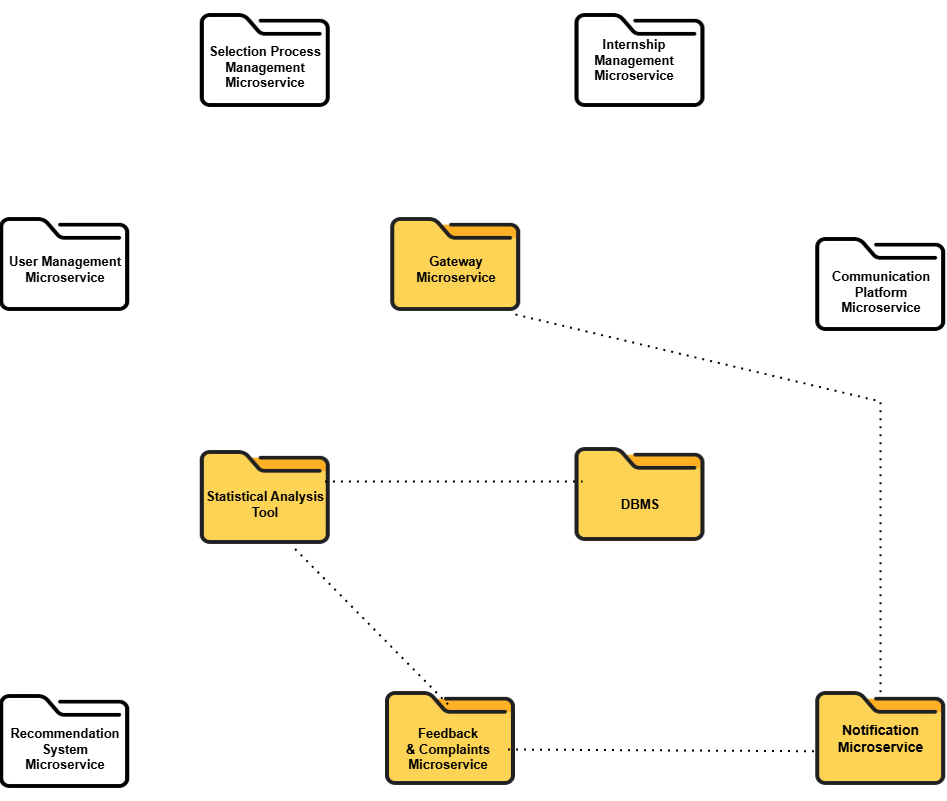
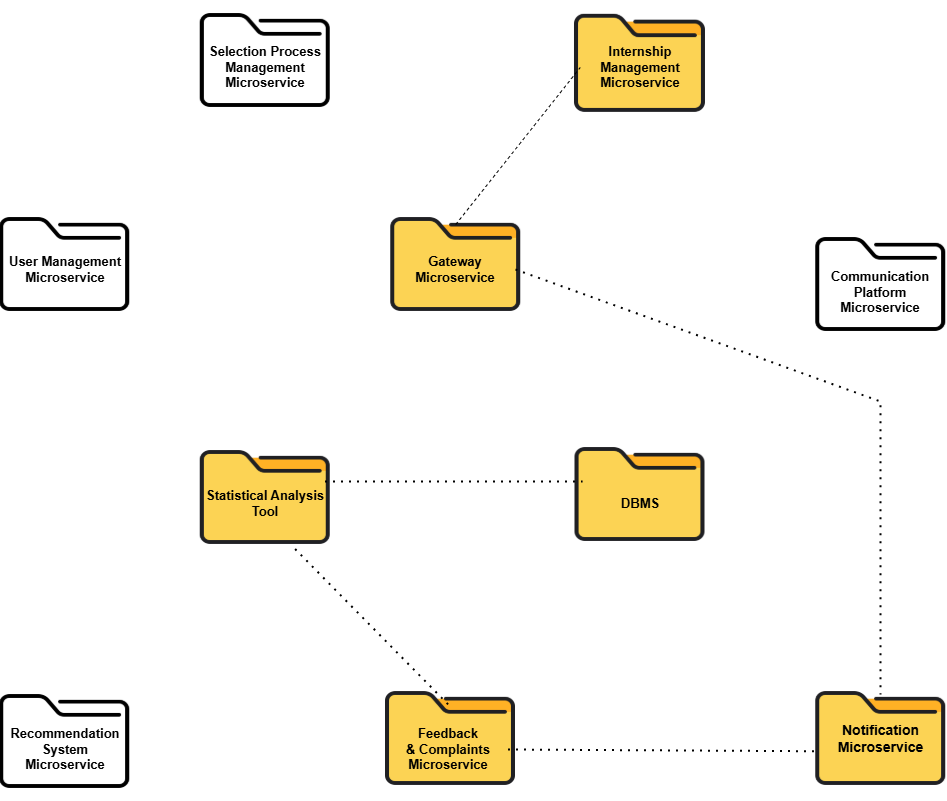
correzioni capitolo 5

diff --git a/DD/DD LaTex/Chapter_5.tex b/DD/DD LaTex/Chapter_5.tex
@@ -12,7 +12,9 @@ The chapter is divided into three main parts:
     \item Feature Identification: This part focuses on the platform's key functionalities, derived from
     primary use cases, and highlights the microservices that support them - Section 5.2.1
     \item Component Integration and Testing: This section describes the integration of microservices
-    to test features, using a thread-based strategy that mirrors real-world scenarios - Section 5.2.2
+    to test features, using a thread-based strategy that mirrors real-world scenarios.
+    The software will be implemented starting from the features; each features
+    will first be implemented and tested, and then integrated with others - Section 5.2.2
     \item System Testing: Here, the focus shifts to testing the platform as a whole, ensuring that
     all components work together seamlessly to deliver a complete and robust system - Section 5.3
 \end{enumerate}
@@ -155,23 +157,20 @@ and internship, enriched with additional useful information automatically gather
 This report is then sent to universities via a notification, as they are responsible for monitoring
 the situation.
 
-The system collects both preliminary data and data provided by users, similar to the process outlined
-in the previous section. Preliminary data includes user actions and profile information, while more
-detailed data is gathered from user feedback and complaints. The Statistical Analysis Tool collects
-the preliminary data, while the Feedback and Complaints Microservice gathers and processes the
-feedback and complaints submitted by users. It’s important to note that user feedback, in addition
-to formal complaints, can also serve as a valuable source of information for the complaint report.
-
-Once the data is collected, it is processed by the system. Relevant data for the complaint report is
+Data have been collected and they have been processed by the system. Relevant data for the
+complaint report is
 then forwarded to the appropriate section, where it undergoes further processing to create the
 finalized complaint report. This report is enriched with the necessary information, making it
 suitable for sending to the universities. Finally, the report is transformed into a notification
 and sent to the universities for monitoring purposes.
 
+This report is an important tool for universities, as it helps them decide whether or not to
+terminate an internship.
+
 \newpage
 \subsection{Components Integration and Testing}
 
-In the integration testing phase of the Students\&Companies (S\&C) platform, a hread-based strategy
+In the integration testing phase of the Students\&Companies (S\&C) platform, a thread-based strategy
 was chosen to ensure a systematic and realistic evaluation of the system. This approach focuses on
 testing complete end-to-end flows, or "threads," that represent specific use cases, such as matching
 students with internships or managing the selection process. 
@@ -241,10 +240,10 @@ As the student explores these opportunities, their profile information,
 preferences, and actions are managed by the student user management microservice, which ensures
 their data is updated and stored in the database.
 
-Once the student finds an internship that interests them, they can apply to start the selection
+Once the student finds an internship that interests him, he can apply to start the selection
 proess. This application triggers the selection process microservice, which records the
 application and initiates the workflow for the company to review. The company can then
-access the student's profile and decide whether to accept them into the selection process.
+access the student's profile and decide whether to accept him into the selection process.
 This decision-making is facilitated by the company user management microservice, which retrieves
 the student's details stored in the database, allowing the company to make an informed decision
 based on the student's qualifications and other relevant data.
@@ -258,7 +257,7 @@ Once the student is accepted, the selection process continues with the student c
 questionnaires designed to assess their fit for the internship. These questionnaires are
 managed and delivered by the selection process microservice, which ensures that they are
 assigned to the appropriate students and tracked throughout the process. All responses
-are stored in the database for later review by the company or other relevant stakeholders.
+are stored in the database for later review by the company.
 
 Additionally, the platform provides the option for online interviews, which can be scheduled
 by the company and the student. The gateway microservice facilitates the scheduling and
@@ -367,16 +366,8 @@ Here is a schematic view of the development and testing of this feature:
 The recommendation system is designed to deliver targeted notifications to both students and companies,
 involving several key stages, each supported by different microservices.
 
-The process begins with data collection, which is split into two categories: preliminary data and
-detailed user data. Preliminary data is automatically gathered from user profiles and their actions
-on the platform, such as internship views, applications, and company activities. The Statistical
-Analysis Tool microservice is responsible for collecting this data, tracking user interactions.
-In addition, more detailed data comes directly from users, such as feedback and complaints.
-This information helps the system refine recommendations. The Feedback
-\& Complaints Service
-collects and stores this user-generated input.
-
-Once data is collected, it needs to be processed and organized. The Statistical Analysis Service
+The process begins once data is collected and they need to be processed and organized.
+The Statistical Analysis Tool
 categorizes the data based on relevance and user type, ensuring that it is ready for recommendation
 generation. This step ensures that only actionable data is passed on to the next phase.
 
@@ -387,8 +378,7 @@ The Recommendation Microservice handles this stage by applying algorithms to ide
 generate tailored suggestions.
 
 After recommendations are generated, they are formatted into notifications. The Notification Microservice 
-transforms these recommendations into user-friendly formats suitable for delivery across various channels, 
-such as email or in-app alerts.
+transforms these recommendations into user-friendly formats suitable for be delivered by in-app alerts.
 
 Finally, the Gateway Microservice ensures that the notifications are delivered to the appropriate users. 
 It routes them according to user preferences, ensuring that each notification reaches its target in 
@@ -408,31 +398,17 @@ Here is a schematic view of the development and testing of this feature:
 \subsubsection{Complaints Report Generation Features}
 
 The complaint report generation feature is designed to produce a detailed report of complaints,
- categorized by student and internship, and enriched with additional useful information gathered
-  automatically from the system. The purpose of this report is to allow universities to monitor
-   and address any issues raised by students or companies. The process begins with the collection
-    of both preliminary data and user-provided data, which includes feedback and complaints
-     submitted by students and companies.
+categorized by student and internship, and enriched with additional useful information gathered
+automatically from the system. The purpose of this report is to allow universities to monitor
+and address any issues raised by students or companies.
 
-The first step is the collection of preliminary data, which is automatically gathered from the
-system. This includes user actions, such as a student's interaction with internship listings—like
-viewing, applying for internships, or saving posts—and company actions, such as posting or
-managing internship listings. Additionally, user profile data, such as registration details,
-is collected. The Statistical Analysis Tool is responsible for gathering this preliminary
-data, tracking how users engage with the platform. In parallel, more detailed data comes
-directly from users in the form of feedback and complaints. Feedback could include general 
-comments or ratings, and complaints refer to dissatisfaction with specific internships or 
-platform features. Notably, feedback, in addition to formal complaints, can serve as a 
-valuable source of information for the complaint report. The Feedback and Complaints 
-Microservice is responsible for gathering and processing both feedback and complaints, 
-ensuring that all user-generated input is captured.
-
-Once the data is collected, the system processes it to organize and categorize the information 
-for the complaint report. This stage involves distinguishing between different types of data, s
-uch as separating formal complaints from general feedback. Relevant details are extracted from 
+The process begins once the data are collected and the system has processed it to organize and
+categorize the information 
+for the complaint report.
+This functionality is performed by the Statistical Analysis Tool.
+This stage involves distinguishing between different types of data,
+such as separating formal complaints from general feedback. Relevant details are extracted from 
 both feedback and complaints to ensure only useful and actionable data is included in the report. 
-The Feedback and Complaints Microservice plays a critical role in this stage, as it processes 
-and organizes the data into a structured format, making it easier to generate the final complaint report.
 
 After the data has been processed, the system moves on to generate the actual complaint report.
 The report is organized by internship and student, clearly indicating which complaints or feedback 
@@ -445,21 +421,15 @@ it contains all necessary details and is presented in an actionable format for t
 Once the complaint report has been finalized, it is converted into a notification format 
 that can be sent to universities. This involves transforming the raw data into a user-friendly 
 notification that universities can easily review and act upon. The Notification Microservice 
-handles this step, ensuring that the report is clear, concise, and suitable for delivery 
-across various channels, such as email or in-app notifications.
+handles this step, ensuring that the report is clear and concise.
 
 Finally, the notification containing the complaint report is sent to the universities. 
 The Gateway Microservice is responsible for routing the notification to the appropriate 
-recipients at the university, ensuring it reaches the relevant departments or staff 
-members responsible for monitoring and addressing student and company concerns. The 
-notification is delivered through the university's preferred channels, ensuring timely 
-access to the information.
+recipients at the university.
 
-Through this detailed process, the complaint report generation feature ensures that 
-universities are promptly informed about any issues that need attention. By combining
-user feedback, complaints, and system-generated data, the feature helps universities
-stay informed, monitor the situation, and take appropriate action to improve the
-platform experience for all users.
+After the complaint report is received by the university, they can decide if it's neccessary to
+interrupt the internship. There is a dedicated space accessible only by university for this feature.
+This feature is performed by the Internship Management Microservice.
 
 Here is a schematic view of the development and testing of this feature:
 
